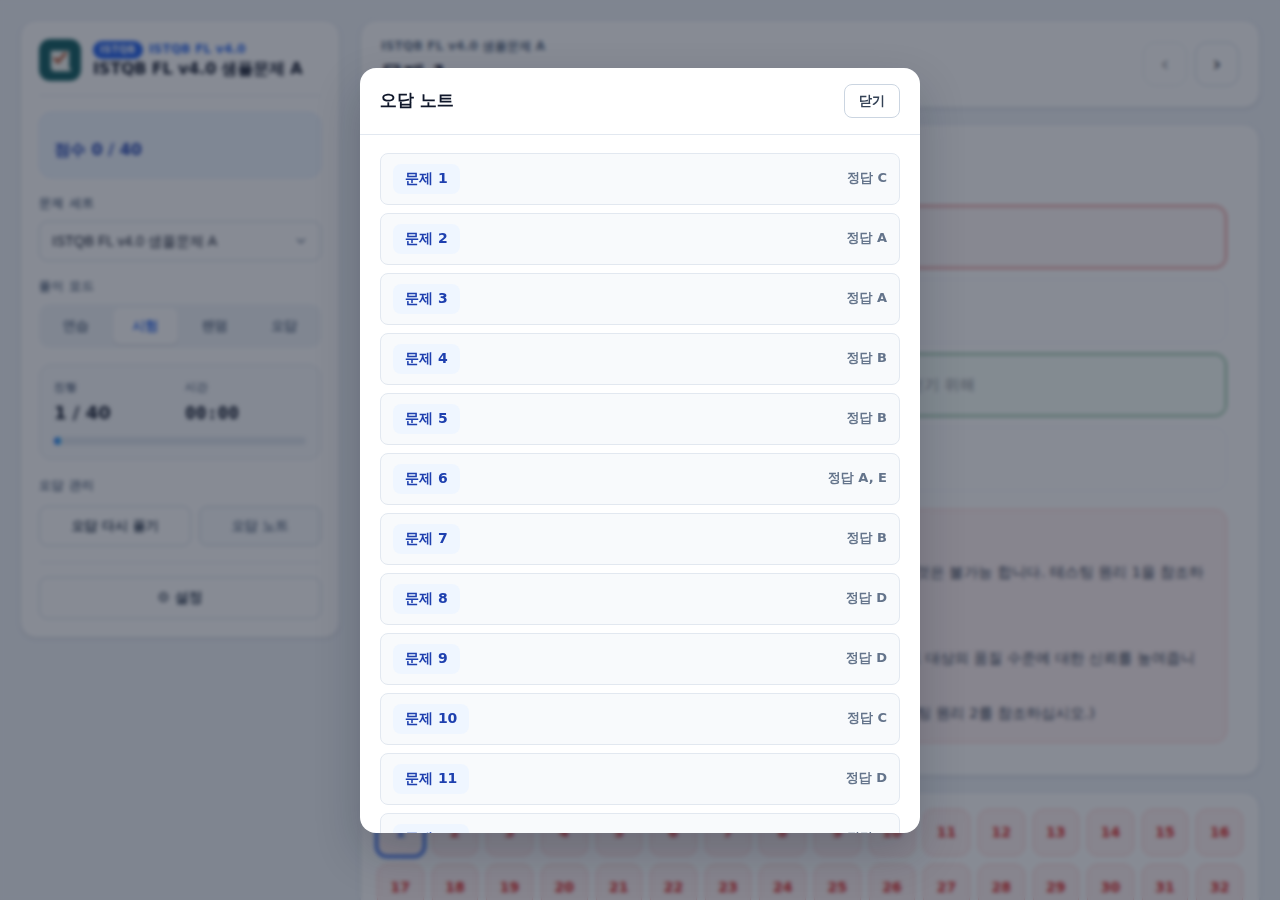
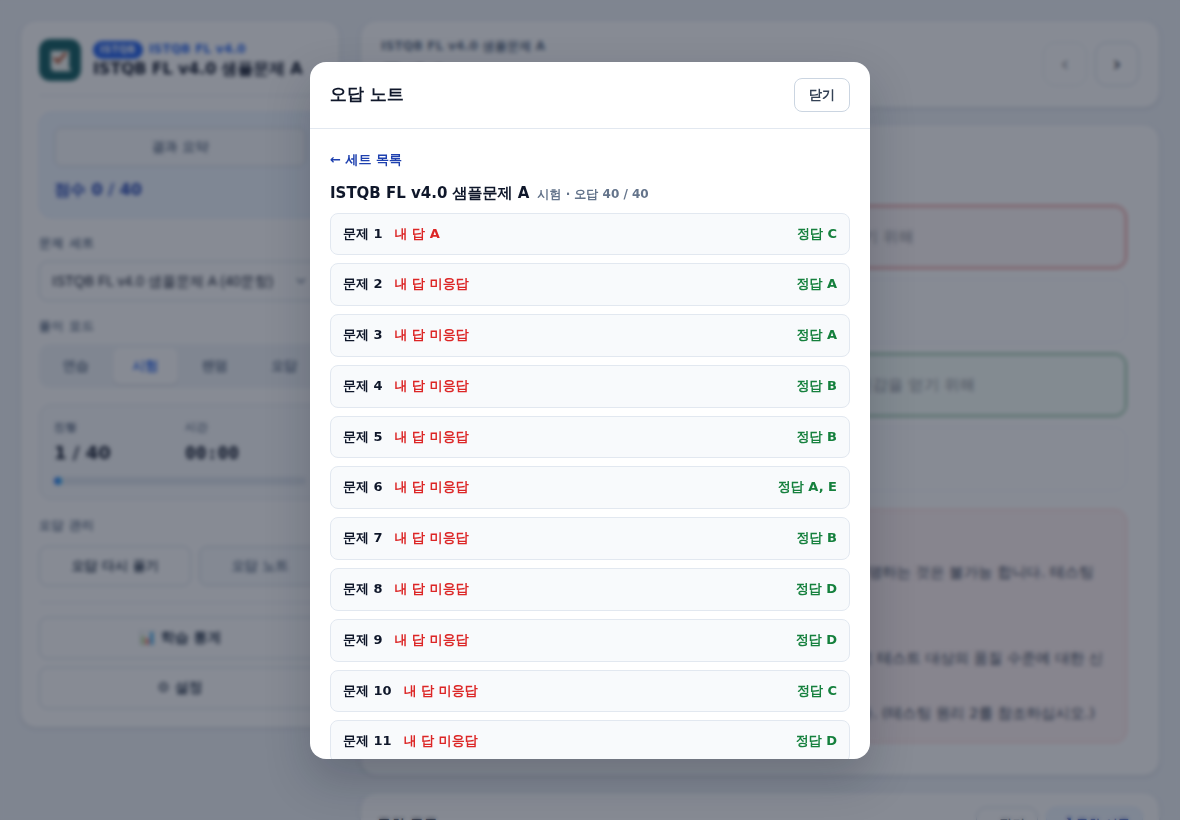
docs: 최근 변경(오답노트 재설계·시험 이어풀기/재응시·이어풀기 선택) README 반영
- README 주요 기능: 시험 모드 변경 경고, 재접속·세트변경 이어풀기/새로풀기
  선택, 채점 후 재응시, 제출 전 검토, 오답노트(세트별·내 답/정답) 반영.
- 오답노트 데모 라벨에서 제거된 "해당 문항 이동" 표현 정리.
- 오답노트 스크린샷(04-wrongnote.png)을 현재 2단계 UI(세트 상세)로 갱신.
- e2e 시나리오 react-study-ux 설명 최신화.

테스트 카운트(E2E 248·유닛 51·합계 299)는 이미 일치(변경 없음).

Claude-Session: https://claude.ai/code/session_014ywbDYsgMqbR8vv6erzPWw

diff --git a/README.md b/README.md
@@ -65,13 +65,15 @@ ISTQB Foundation Level v4.0 및 CSTS(SW 테스트 전문가) 한국어 기출 **
 - **연습 · 시험 · 랜덤 · 오답** 4가지 모드
 - 연습 모드: 답 선택 후 즉시 정답/해설 확인 / 시험·랜덤·오답 모드: 채점 후 결과 확인
 - 오답 모드에서 `오답 다시풀기` 전까지 기존 오답 기록 보호
-- 풀이 중 세트/모드 변경 시 확인 알림
-- 앱을 껐다 켜도 풀이 상태 복원(localStorage / IndexedDB)
+- **시험 진행 중 다른 모드로 변경 시 경고**(이동 / 뒤로가기 선택)
+- 앱을 껐다 켜도 풀이 상태·모드 복원(localStorage / IndexedDB), **재접속·세트 변경 시 시험 답안이 있으면 “이어풀기 / 새로 풀기” 선택**
+- **시험 채점 후 재응시** — 다른 모드로 갔다 오거나 재접속하면 잠금이 풀려 같은 시험을 다시 풀 수 있음
 - 풀이 기록 JSON **내보내기 / 가져오기**
-- **자격증별 합격 컷스코어** — ISTQB 65%(40문항 기준 26) / CSTS 환산 52.5점, 채점 후 합/불 결과 요약
-- **미응답 채점 확인** 모달(실수 제출 방지) · **채점 결과 요약**(점수·정답률·소요시간·오답 연계)
+- **자격증별 합격 컷스코어** — ISTQB 65%(40문항 기준 26) / CSTS 환산 52.5점, 채점 후 합/불 결과 요약(값 줄바꿈 없이 한 줄 표기)
+- **미응답 채점 확인 · 제출 전 검토** — 미응답이 있으면 채점 전 확인 모달에서 문항 팔레트로 미응답 문항으로 바로 이동
+- **오답 노트** — 채점 회차를 **세트별로 모아** 선택 → 그 세트의 **문제번호 · 내가 고른 답 · 정답** 표시(읽기 전용)
 - **그림 확대 라이트박스**(새 탭 이탈 없이 인앱 확대, Esc/배경 닫기·포커스 트랩)
-- **학습 통계 대시보드**(응시 이력·평균/최고 정답률)
+- **학습 통계 대시보드**(응시 이력·평균/최고 정답률) · **이어풀기 안내 배너**(중간 위치 복원 시 처음부터/계속하기)
 - PDF에서 추출한 **표·그림·코드 블록·목록**을 이미지/구조화 블록으로 렌더링(마크다운 표 → HTML `<table>`)
 - 다크모드(그림 흰 배경 보정) · 반응형(모바일 드로어·하단 액션바·점프핀) · **색각 대비 글리프**
 - 단답형·복수정답·진위형 등 다양한 문항 유형 지원
@@ -86,7 +88,7 @@ ISTQB Foundation Level v4.0 및 CSTS(SW 테스트 전문가) 한국어 기출 **
 |------|-----|
 | 연습 풀이(즉시 피드백·문항 이동) | ![연습](docs/gifs/01-practice.gif) |
 | 시험 채점(점수·정답 공개) | ![채점](docs/gifs/02-grade.gif) |
-| 오답노트(목록·해당 문항 이동) | ![오답노트](docs/gifs/03-wrongnote.gif) |
+| 오답노트 열기·확인 | ![오답노트](docs/gifs/03-wrongnote.gif) |
 | 설정(글자 크기 변경) | ![설정](docs/gifs/04-settings.gif) |
 | 모드 전환·번호 팔레트·키보드 네비 | ![네비](docs/gifs/05-nav.gif) |
 | 단답형 입력·정답 확인 | ![단답형](docs/gifs/06-shortanswer.gif) |

diff --git a/docs/e2e-test-scenarios.md b/docs/e2e-test-scenarios.md
@@ -35,7 +35,7 @@
 | `react-edge-figtable` | 13 | 엣지: 특정 표/그림 문항 |
 | `react-edge-import` | 8 | 엣지: 대용량/비정상 import 견고성 |
 | `react-pwa` | 2 | PWA 새 버전 업데이트 배너 |
-| `react-study-ux` | 19 | 이어풀기 배너·제출 전 검토·오답노트 재설계·시험 모드 이어풀기/유지·피드백 aria-live |
+| `react-study-ux` | 19 | 이어풀기 배너·제출 전 검토·오답노트 재설계(세트 선택)·시험 모드 유지/재응시·이어풀기·새로풀기 선택·결과 nowrap·피드백 aria-live |
 
 > 아래는 초기 핵심 70개의 상세 G·W·T이며, 이후 엣지·확장 178개는 위 인덱스의 각 스펙 파일에 동일한 G·W·T 구조로 구현되어 있습니다.
 
